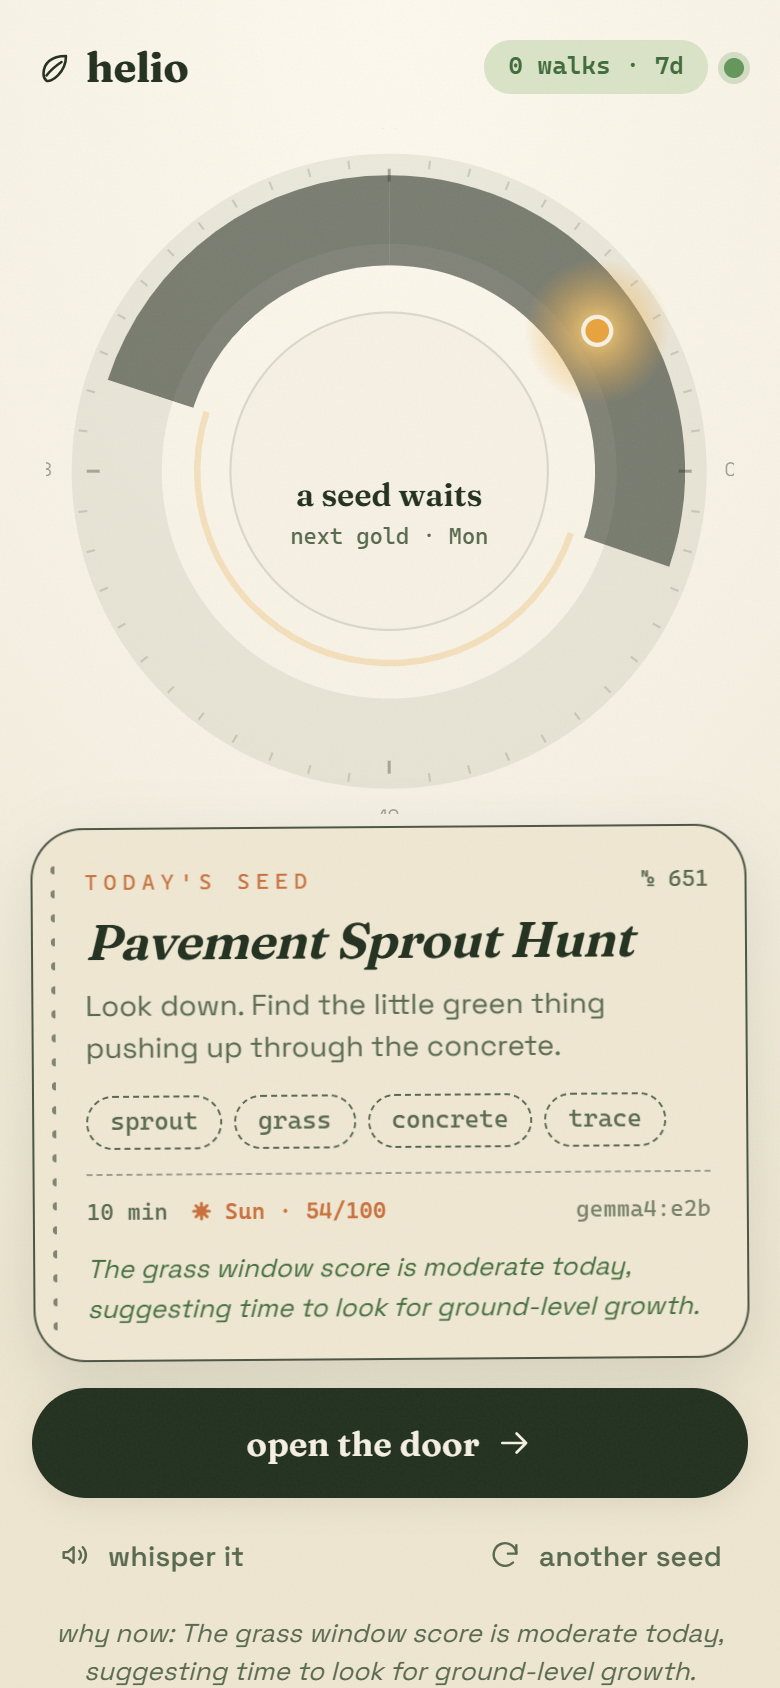
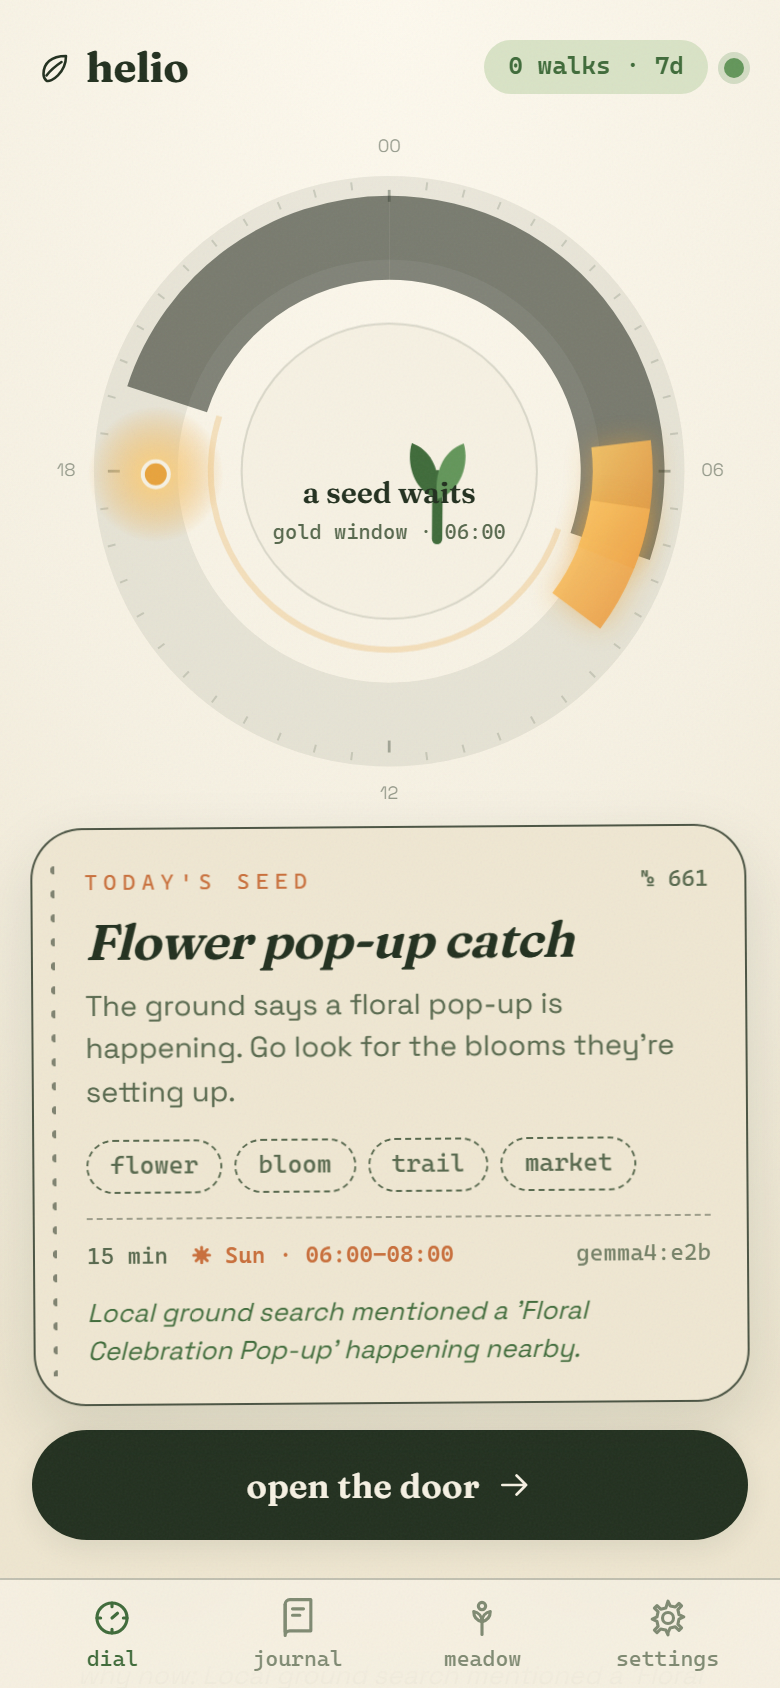
docs: one-tap location in the story + fresh screenshots; log the audit day
- 01-dial.png re-shot on the fixed build: sprout visible, hour labels whole,
  hour-window footer instead of the raw score, bottom nav in frame
- 08-settings.png re-shot with the new use-my-location row
- README + ARTICLE mention the one-tap city detect (near / far / denied paths
  all tested)
- building-log gains 08–11: temporal, tiger, tinker, and the UI audit day
  with dead ends #7 (fixed nav stranded by a finished transform animation)
  and #8 (sway keyframes overriding the sprout's SVG transform)

diff --git a/docs/building-log.md b/docs/building-log.md
@@ -96,3 +96,56 @@ ElevenLabs · SerpApi · MongoDB · Sentry. Core promise: photos never leave the
   with model name, input messages and token usage riding along as `gen_ai.*` attributes.
 - The knob that made this debuggable stays in: `HELIO_SENTRY_DEBUG=1` prints span
   lifecycles to the server log.
+
+## 08 · temporal — a mission is a promise with a deadline
+
+- "Walk when the window opens, prove it before it closes" is exactly the shape Temporal
+  exists for, so every compiled mission starts a `missionLifecycle` workflow: sleep until
+  the TabPFN-picked golden hour, a 6-hour expiry, one `markDone` signal the verifier fires.
+  The workflow races `sleep()` against `condition(done)` and returns `"verified"` or
+  `"missed"` honestly.
+- Verified for real: a mission that signalled during its sleep completed as
+  `Result: "verified"` (2m33s wall time, timer cancelled); a probe workflow woke at its
+  golden hour, POSTed a `ripe` event back into the agent, then closed as `"missed"` — all
+  visible in the Temporal UI.
+- Leaf node: with no `TEMPORAL_ADDRESS`, the mission still compiles and the API says
+  `lifecycle: { scheduled: false }`.
+
+## 09 · tiger data — the time-series shadow of the meadow
+
+- Walks land in a `footprints` hypertable (TimescaleDB, via `pg`) and
+  `GET /api/footprints` serves the server-side 7-day series. Verified locally end-to-end.
+- Env-gated: no `TIGER_URL` → the endpoint answers `{enabled:false}` and the meadow never
+  notices. Wired end-to-end, one key away.
+
+## 10 · tinker — the whisper as a trainable artifact
+
+- `services/tinker/` distills the hand-written field corpus into context→whisper pairs and
+  LoRA-fine-tunes a small open-weight model via Tinker's SDK; the agent samples whispers
+  through Tinker's OpenAI-compatible endpoint.
+- Fully wired and env-gated, with the honest status in the article: the training run is
+  waiting on the account's billing/credit activation, so today the compiler's own whisper
+  answers — and says so.
+
+## 11 · the UI audit day — three bugs a screenshot would have shipped
+
+- Swept every screen in three walker contexts (pass path, keyboard-fail path, offline
+  path) plus desktop 1280 and narrow 320: programmatic checks for horizontal overflow,
+  spills past the viewport, sibling overlaps in key rows, out-of-box children and SVG
+  viewBox clipping — 40+ screenshots, a machine-readable report, zero findings left.
+- **Dead end #7**: the screen-entrance animation used fill-mode `both`, and a *finished*
+  transform animation still counts as a containing block for `position:fixed` descendants
+  (computed `matrix(1,0,0,1,0,0)` ≠ `none`). The bottom nav and the journal sheet anchored
+  to the bottom of the *page* instead of the viewport — invisible on any screen taller
+  than the fold. Diagnosed by walking the ancestor chain's computed styles in a live
+  probe; fix is fill-mode `backwards`.
+- **Dead end #8**: the dial sprout's CSS sway animation override the SVG positioning
+  `transform` attribute outright — the sprout rendered ~189 viewBox units outside the
+  frame, invisibly. Fix: positioning moved to an outer `<g>`, the animation lives on an
+  inner `<g>` with `transform-box: fill-box` so it pivots in place.
+- Also caught by the same sweep: hour labels clipped at the viewBox edge (padded the
+  viewBox), and the seed card's raw `0/100` TabPFN score — honest on a rainy week, but it
+  reads as broken — replaced with the hour window (`Sun · 06:00–08:00`).
+- New in the same pass: one-tap **use my location** in settings — browser permission →
+  nearest baked city, with an honest distance note when you're far from all three.
+  Tested on all three paths: near, far, and denied.

diff --git a/submission/ARTICLE.md b/submission/ARTICLE.md
@@ -29,7 +29,8 @@ earns:
 
 Between those two poles sits the experience:
 
-- **the dial** — a sun-compass that lights up the best outdoor hours of today
+- **the dial** — a sun-compass that lights up the best outdoor hours of today; one tap on
+  *use my location* pins the nearest supported sky
 - **the door** — a Mastra + Gemma *mission compiler* writes you a tiny whispered
   assignment ("Find the oldest standing thing within walking distance…"), and a
   **Temporal workflow** holds that mission on a durable timer until its grass window
@@ -190,7 +191,9 @@ Honest limits, because the meadow only grows on verified walks:
   authorship — no location attestation, no sensor checks. A determined cheater with a
   stock photo of moss could still fool it. Helio is a nudge with a memory, not a cop.
 - **The hosted demo covers three cities.** The model itself takes any city; Petaling
-  Jaya, Seattle and Zürich are what the free-tier bake keeps fresh.
+  Jaya, Seattle and Zürich are what the free-tier bake keeps fresh. Tap *use my
+  location* and Helio picks whichever is nearest — with an honest distance note when
+  you're far from all three.
 - **The deployed window service serves precomputed scores.** Torch doesn't fit a 512MB
   free instance, so the real model runs in the daily GitHub Action bake and the service
   recomputes live forecasts on top — the `served` field always tells you which layer

diff --git a/README.md b/README.md
@@ -20,7 +20,7 @@ Built for the **DEV × Hacktoberfest Open Source AI Challenge** — Week 1: *Tou
 
 | | screen | what happens |
 |---|---|---|
-| 01 | **dial** | TabPFN reads a decade of your city's weather and draws the best outdoor hours today |
+| 01 | **dial** | TabPFN reads a decade of weather for your city (one-tap *use my location*) and draws the best outdoor hours today |
 | 02 | **door** | the mission compiler (Mastra + Gemma) writes you a tiny whispered assignment |
 | 03 | **pocket** | put the phone away — the screen is done now |
 | 04 | **proof** | photograph what you found; an on-device vision model passes or fails it |
